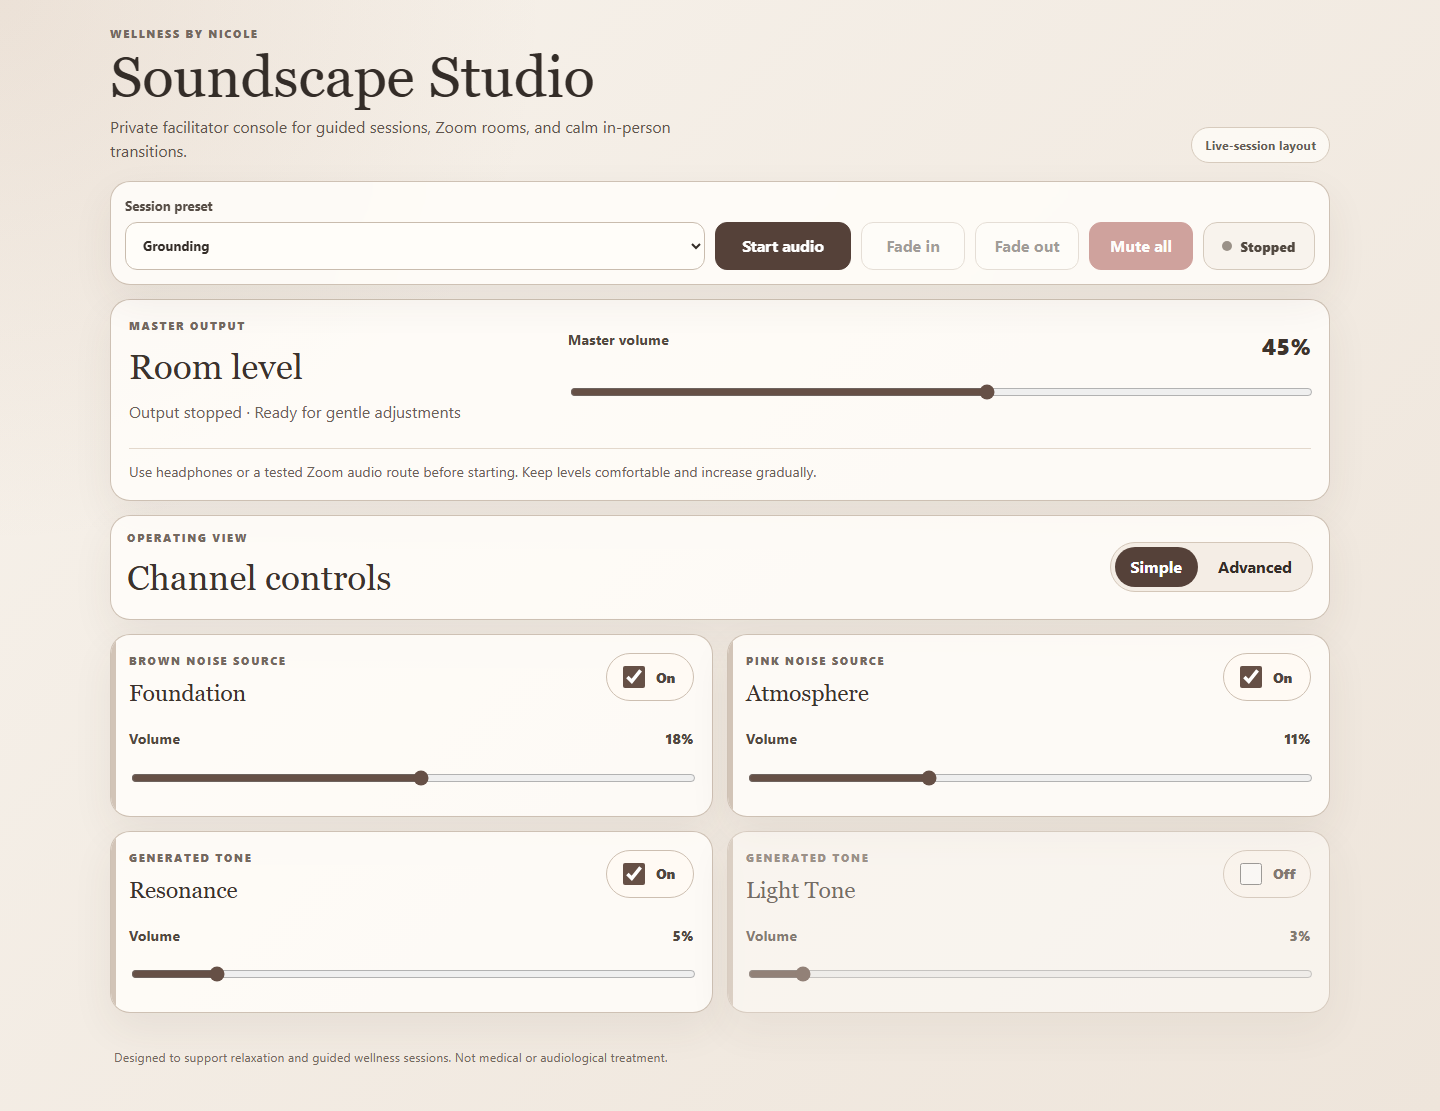
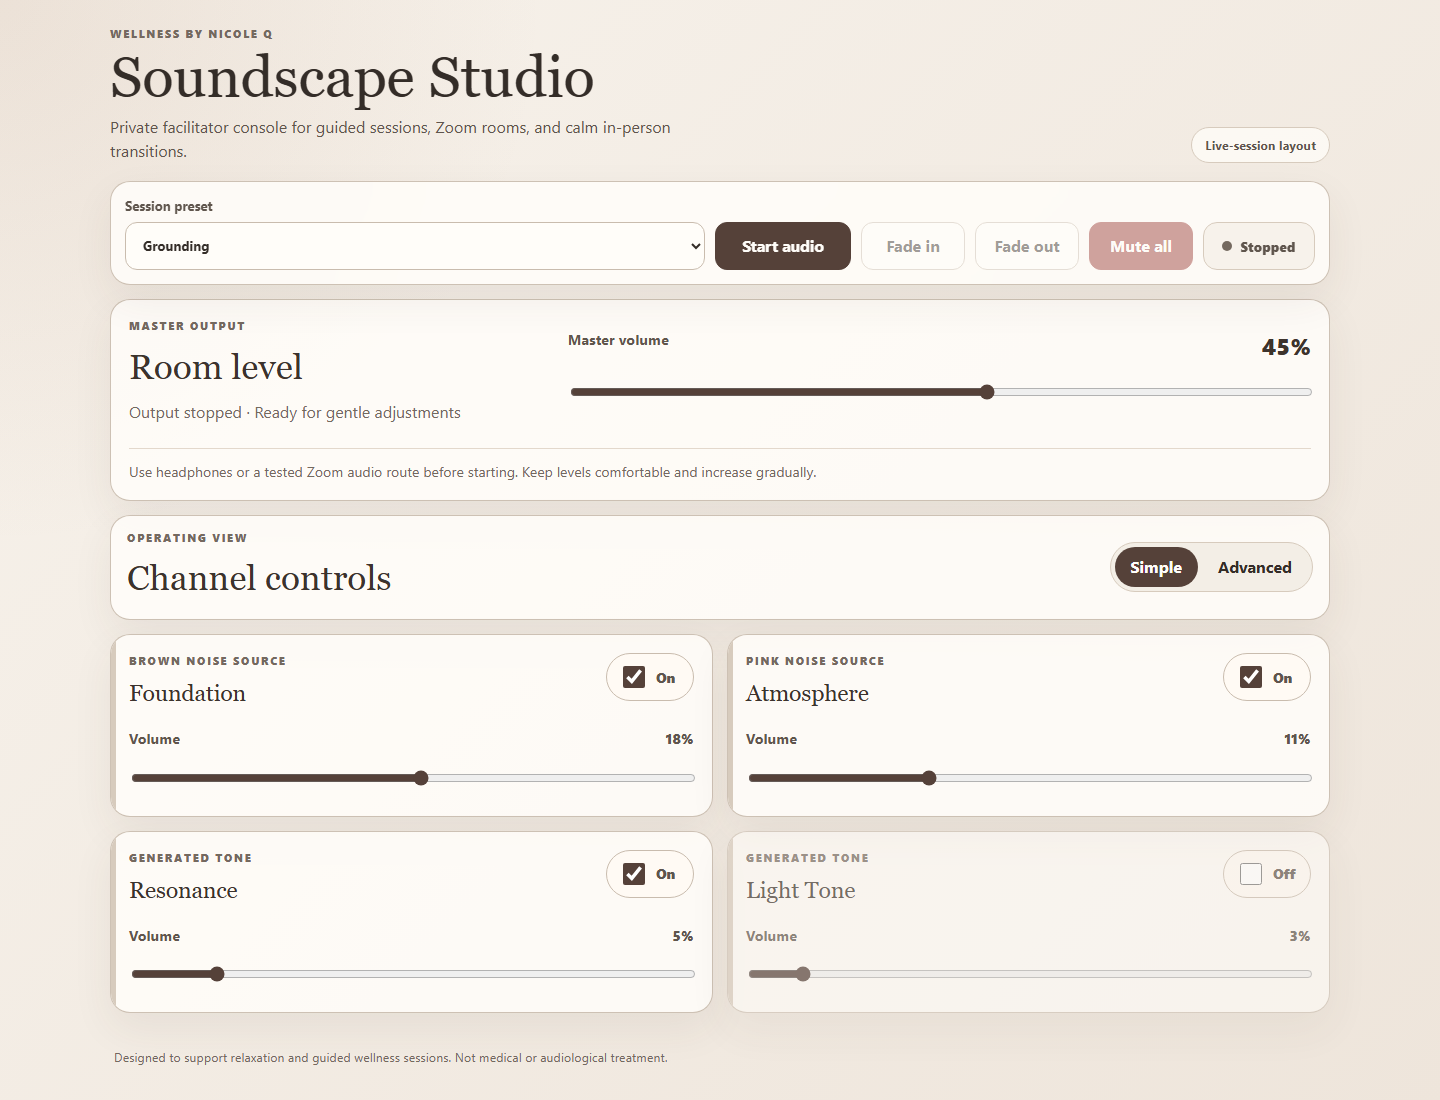
Apply Soundscape Studio brand groundwork

Changed region(s): [[0.0625, 0.0618, 0.9375, 0.9891], [0.8438, 0.7727, 0.9062, 0.8036], [0.8438, 0.1236, 0.9062, 0.1545]]

diff --git a/src/styles.css b/src/styles.css
@@ -1,6 +1,31 @@
 :root {
-  color: #342d28;
-  background: #f3eee6;
+  --wbnq-page-bg: #f3eee6;
+  --wbnq-page-bg-soft: #f7f2eb;
+  --wbnq-page-bg-warm: #eee5db;
+  --wbnq-surface-bg: rgba(255, 253, 249, .86);
+  --wbnq-surface-solid: #fffdf9;
+  --wbnq-surface-elevated: #fffaf4;
+  --wbnq-primary: #554139;
+  --wbnq-primary-strong: #3c332d;
+  --wbnq-secondary: #8f644d;
+  --wbnq-secondary-soft: rgba(167, 125, 95, .14);
+  --wbnq-text: #342d28;
+  --wbnq-text-strong: #3d332d;
+  --wbnq-text-muted: #74695f;
+  --wbnq-text-soft: #5f554d;
+  --wbnq-border: #c9bcae;
+  --wbnq-border-soft: #d7cbbd;
+  --wbnq-border-subtle: #e3d8cc;
+  --wbnq-active: #3f7b54;
+  --wbnq-caution: #be7b2a;
+  --wbnq-mute: #9a3a34;
+  --wbnq-mute-soft: #fff7f2;
+  --wbnq-focus-ring: #9d684d;
+  --wbnq-shadow: rgba(73, 58, 45, .07);
+  --wbnq-overlay: rgba(255, 253, 249, .72);
+
+  color: var(--wbnq-text);
+  background: var(--wbnq-page-bg);
   font-family: Inter, ui-sans-serif, system-ui, -apple-system, BlinkMacSystemFont, "Segoe UI", sans-serif;
   font-synthesis: none;
   line-height: 1.5;
@@ -13,8 +38,8 @@ body {
   min-width: 320px;
   min-height: 100vh;
   background:
-    radial-gradient(circle at top left, rgba(167, 125, 95, .14), transparent 34rem),
-    linear-gradient(135deg, #f7f2eb 0%, #eee5db 100%);
+    radial-gradient(circle at top left, var(--wbnq-secondary-soft), transparent 34rem),
+    linear-gradient(135deg, var(--wbnq-page-bg-soft) 0%, var(--wbnq-page-bg-warm) 100%);
 }
 
 button,
@@ -26,10 +51,10 @@ input {
 button,
 select {
   min-height: 48px;
-  border: 1px solid #c9bcae;
+  border: 1px solid var(--wbnq-border);
   border-radius: 12px;
-  background: #fffdf9;
-  color: #342d28;
+  background: var(--wbnq-surface-solid);
+  color: var(--wbnq-text);
 }
 
 button {
@@ -51,13 +76,13 @@ button:focus-visible,
 select:focus-visible,
 input:focus-visible,
 summary:focus-visible {
-  outline: 3px solid #9d684d;
+  outline: 3px solid var(--wbnq-focus-ring);
   outline-offset: 3px;
 }
 
 input[type="range"] {
   width: 100%;
-  accent-color: #665046;
+  accent-color: var(--wbnq-primary);
   min-height: 36px;
 }
 
@@ -69,16 +94,20 @@ main {
 
 .app-header {
   display: flex;
-  align-items: end;
+  align-items: flex-end;
   justify-content: space-between;
   gap: 20px;
   margin-bottom: 18px;
 }
 
+.brand-heading {
+  min-width: 0;
+}
+
 .eyebrow,
 .source {
   margin: 0 0 6px;
-  color: #74695f;
+  color: var(--wbnq-text-muted);
   font-size: .7rem;
   font-weight: 820;
   letter-spacing: .14em;
@@ -100,17 +129,17 @@ h1 {
 .lede {
   max-width: 620px;
   margin: 10px 0 0;
-  color: #5f554d;
+  color: var(--wbnq-text-soft);
   font-size: 1rem;
 }
 
 .session-label {
   flex: 0 0 auto;
-  border: 1px solid #d7cbbd;
+  border: 1px solid var(--wbnq-border-soft);
   border-radius: 999px;
   padding: 8px 13px;
-  background: rgba(255, 253, 249, .72);
-  color: #665d55;
+  background: var(--wbnq-overlay);
+  color: var(--wbnq-text-soft);
   font-size: .78rem;
   font-weight: 760;
 }
@@ -119,10 +148,10 @@ h1 {
 .master,
 .channel,
 .mode-row {
-  border: 1px solid rgba(202, 188, 174, .92);
+  border: 1px solid color-mix(in srgb, var(--wbnq-border) 92%, transparent);
   border-radius: 20px;
-  background: rgba(255, 253, 249, .86);
-  box-shadow: 0 16px 42px rgba(73, 58, 45, .07);
+  background: var(--wbnq-surface-bg);
+  box-shadow: 0 16px 42px var(--wbnq-shadow);
 }
 
 .session-bar {
@@ -140,7 +169,7 @@ h1 {
 .preset-control {
   display: grid;
   gap: 6px;
-  color: #554c45;
+  color: var(--wbnq-text-soft);
   font-size: .82rem;
   font-weight: 760;
 }
@@ -151,15 +180,15 @@ h1 {
 }
 
 .primary {
-  border-color: #554139;
-  background: #554139;
-  color: #fff;
+  border-color: var(--wbnq-primary);
+  background: var(--wbnq-primary);
+  color: var(--wbnq-surface-solid);
 }
 
 .stop {
-  border-color: #7a4b3c;
-  background: #fff7f2;
-  color: #6f3429;
+  border-color: var(--wbnq-secondary);
+  background: var(--wbnq-mute-soft);
+  color: var(--wbnq-mute);
 }
 
 .action-main {
@@ -168,9 +197,9 @@ h1 {
 }
 
 .danger {
-  border-color: #9a3a34;
-  background: #9a3a34;
-  color: #fff;
+  border-color: var(--wbnq-mute);
+  background: var(--wbnq-mute);
+  color: var(--wbnq-surface-solid);
 }
 
 .live-status {
@@ -179,11 +208,11 @@ h1 {
   justify-content: center;
   gap: 8px;
   min-height: 48px;
-  border: 1px solid #d5cabd;
+  border: 1px solid var(--wbnq-border-soft);
   border-radius: 14px;
   padding: 0 12px;
-  background: #f8f3ed;
-  color: #514840;
+  background: var(--wbnq-page-bg-soft);
+  color: var(--wbnq-text-soft);
   font-size: .84rem;
   font-weight: 820;
 }
@@ -192,12 +221,12 @@ h1 {
   width: 10px;
   height: 10px;
   border-radius: 999px;
-  background: #9a9188;
+  background: var(--wbnq-text-muted);
 }
 
-.live-status.active span { background: #3f7b54; }
-.live-status.fading span { background: #be7b2a; }
-.live-status.muted span { background: #9a3a34; }
+.live-status.active span { background: var(--wbnq-active); }
+.live-status.fading span { background: var(--wbnq-caution); }
+.live-status.muted span { background: var(--wbnq-mute); }
 
 .master {
   display: grid;
@@ -211,14 +240,14 @@ h1 {
 .master-copy h2,
 .mode-row h2 {
   margin: 0;
-  color: #3c332d;
+  color: var(--wbnq-primary-strong);
   font-size: clamp(1.5rem, 3vw, 2.2rem);
 }
 
 .master-copy p:last-child,
 .status {
   margin: 6px 0 0;
-  color: #6c6158;
+  color: var(--wbnq-text-muted);
 }
 
 .master-slider,
@@ -226,13 +255,13 @@ h1 {
   display: grid;
   grid-template-columns: 1fr auto;
   gap: 8px 14px;
-  color: #514840;
+  color: var(--wbnq-text-soft);
   font-size: .9rem;
   font-weight: 720;
 }
 
 .master-slider strong {
-  color: #3d332d;
+  color: var(--wbnq-text-strong);
   font-size: 1.45rem;
 }
 
@@ -243,7 +272,7 @@ h1 {
 
 .master .status {
   grid-column: 1 / -1;
-  border-top: 1px solid #e3d8cc;
+  border-top: 1px solid var(--wbnq-border-subtle);
   padding-top: 12px;
   font-size: .88rem;
 }
@@ -260,10 +289,10 @@ h1 {
 .segmented {
   display: inline-flex;
   gap: 4px;
-  border: 1px solid #d4c7b9;
+  border: 1px solid var(--wbnq-border-soft);
   border-radius: 999px;
   padding: 4px;
-  background: #f4ede5;
+  background: var(--wbnq-page-bg);
 }
 
 .segmented button {
@@ -274,8 +303,8 @@ h1 {
 }
 
 .segmented button.selected {
-  background: #554139;
-  color: #fff;
+  background: var(--wbnq-primary);
+  color: var(--wbnq-surface-solid);
 }
 
 .channels {
@@ -294,16 +323,16 @@ h1 {
   position: absolute;
   inset: 0 auto 0 0;
   width: 5px;
-  background: #d2c4b7;
+  background: var(--wbnq-border-soft);
   content: "";
 }
 
 .channel.active {
-  border-color: #9d7b62;
-  background: #fffdf9;
+  border-color: var(--wbnq-secondary);
+  background: var(--wbnq-surface-solid);
 }
 
-.channel.active::before { background: #8f644d; }
+.channel.active::before { background: var(--wbnq-secondary); }
 
 .channel.muted {
   opacity: .68;
@@ -319,7 +348,7 @@ h1 {
 
 .channel h2 {
   margin: 0;
-  color: #3c332d;
+  color: var(--wbnq-primary-strong);
   font-size: 1.42rem;
 }
 
@@ -328,11 +357,11 @@ h1 {
   align-items: center;
   gap: 8px;
   min-width: 88px;
-  border: 1px solid #cdbfb1;
+  border: 1px solid var(--wbnq-border);
   border-radius: 999px;
   padding: 9px 12px;
-  background: #fffaf4;
-  color: #4f453e;
+  background: var(--wbnq-surface-elevated);
+  color: var(--wbnq-text-soft);
   font-size: .86rem;
   font-weight: 820;
 }
@@ -340,7 +369,7 @@ h1 {
 .switch input {
   width: 22px;
   height: 22px;
-  accent-color: #665046;
+  accent-color: var(--wbnq-primary);
 }
 
 .control {
@@ -349,20 +378,20 @@ h1 {
 
 .advanced-controls {
   margin-top: 14px;
-  border-top: 1px solid #e2d7cb;
+  border-top: 1px solid var(--wbnq-border-subtle);
   padding-top: 12px;
 }
 
 .advanced-controls summary {
   cursor: pointer;
-  color: #5f554d;
+  color: var(--wbnq-text-soft);
   font-size: .86rem;
   font-weight: 820;
 }
 
 footer {
   padding: 22px 4px 0;
-  color: #756a61;
+  color: var(--wbnq-text-muted);
   font-size: .78rem;
 }
 

diff --git a/index.html b/index.html
@@ -4,7 +4,8 @@
     <meta charset="UTF-8" />
     <meta name="viewport" content="width=device-width, initial-scale=1.0" />
     <meta name="theme-color" content="#efe8df" />
-    <title>Soundscape Studio | Wellness by Nicole</title>
+    <meta name="description" content="A branded facilitator console for guided soundscape sessions and calm live transitions." />
+    <title>Soundscape Studio | Wellness by Nicole Q</title>
   </head>
   <body>
     <div id="root"></div>

diff --git a/src/App.tsx b/src/App.tsx
@@ -178,8 +178,8 @@ export default function App() {
 function AppHeader() {
   return (
     <header className="app-header">
-      <div>
-        <p className="eyebrow">Wellness by Nicole</p>
+      <div className="brand-heading">
+        <p className="eyebrow">Wellness by Nicole Q</p>
         <h1>Soundscape Studio</h1>
         <p className="lede">Private facilitator console for guided sessions, Zoom rooms, and calm in-person transitions.</p>
       </div>

diff --git a/public/brand/README.md b/public/brand/README.md
@@ -1,0 +1,12 @@
+# Wellness by Nicole Q brand assets
+
+Place only approved, user-supplied brand assets in this directory.
+
+Expected files when available:
+
+- `wbnq-logo-horizontal.svg`
+- `wbnq-mark.svg`
+- `wbnq-logo-horizontal.png`
+- `favicon.svg`
+
+Do not redraw, trace, approximate, or generate substitute logo artwork.
